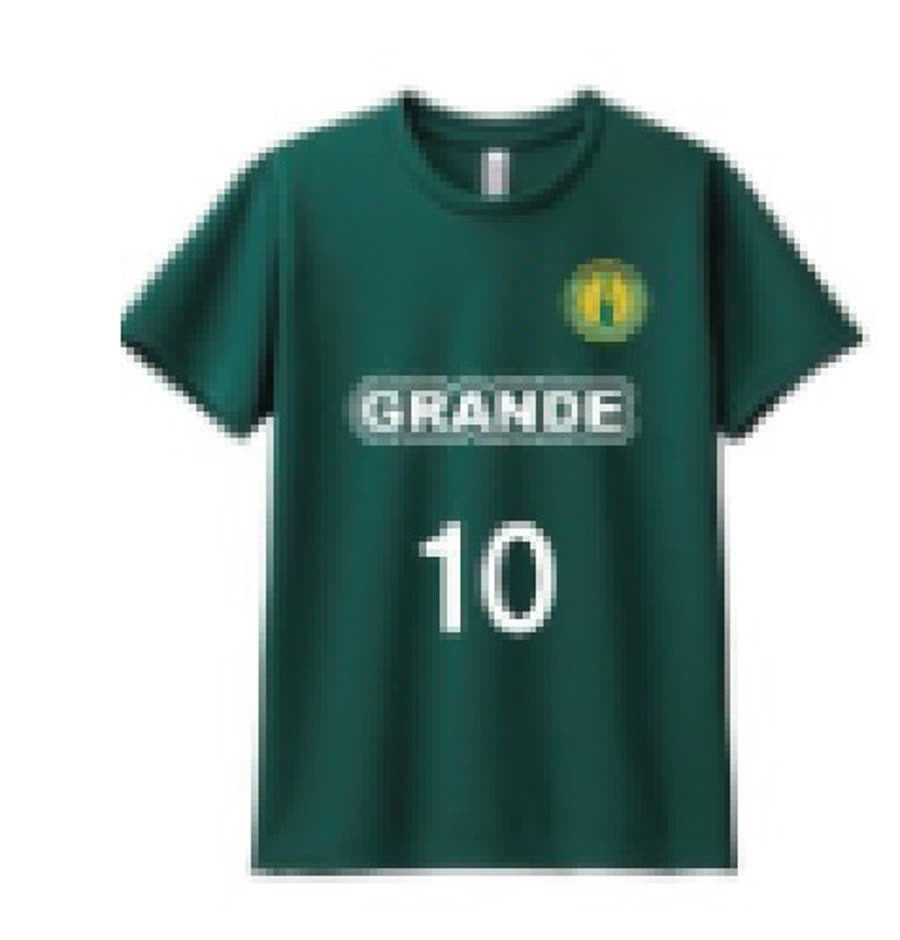
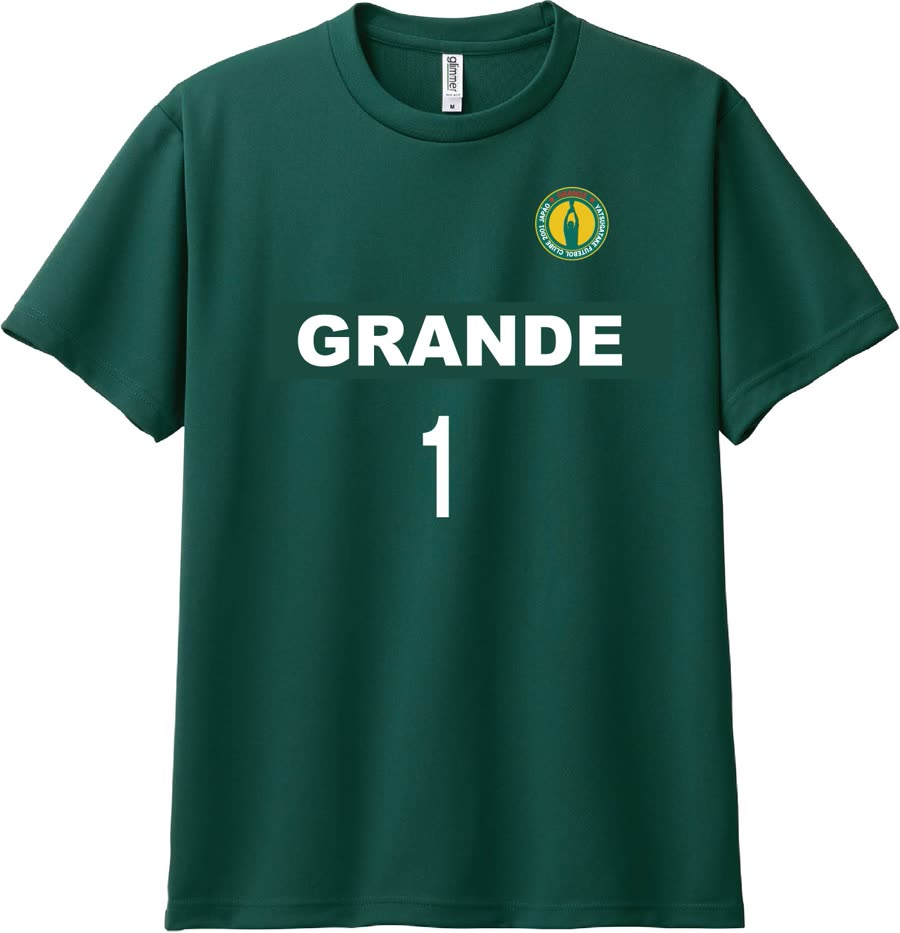
アイテムショップに商品写真をさらに5点追加(プラユニ全色+ソックス赤)
ソックス（赤）、プラユニ（白/赤/黄）を新規追加。プラユニ（緑）は
以前登録した粗い写真から、白/赤/黄と同じ製品撮影スタイルの
高画質版に差し替え。

diff --git a/deployments/grande/itemshop.html b/deployments/grande/itemshop.html
@@ -87,10 +87,14 @@ var DEFAULT_PRODUCT_IMAGES = {
   4:  "assets/items/game-pants-white.jpg",
   5:  "assets/items/socks-green.jpg",
   6:  "assets/items/socks-white.jpg",
+  7:  "assets/items/socks-red.jpg",
   8:  "assets/items/bibs-reversible.jpg",
   9:  "assets/items/backpack.jpg",
   10: "assets/items/polo-navy.jpg",
   11: "assets/items/pracuni-green.jpg",
+  12: "assets/items/pracuni-white.jpg",
+  13: "assets/items/pracuni-red.jpg",
+  14: "assets/items/pracuni-yellow.jpg",
   15: "assets/items/practice-shirt-short.jpg",
   16: "assets/items/practice-shirt-long.jpg",
   17: "assets/items/sweat-set.jpg",
